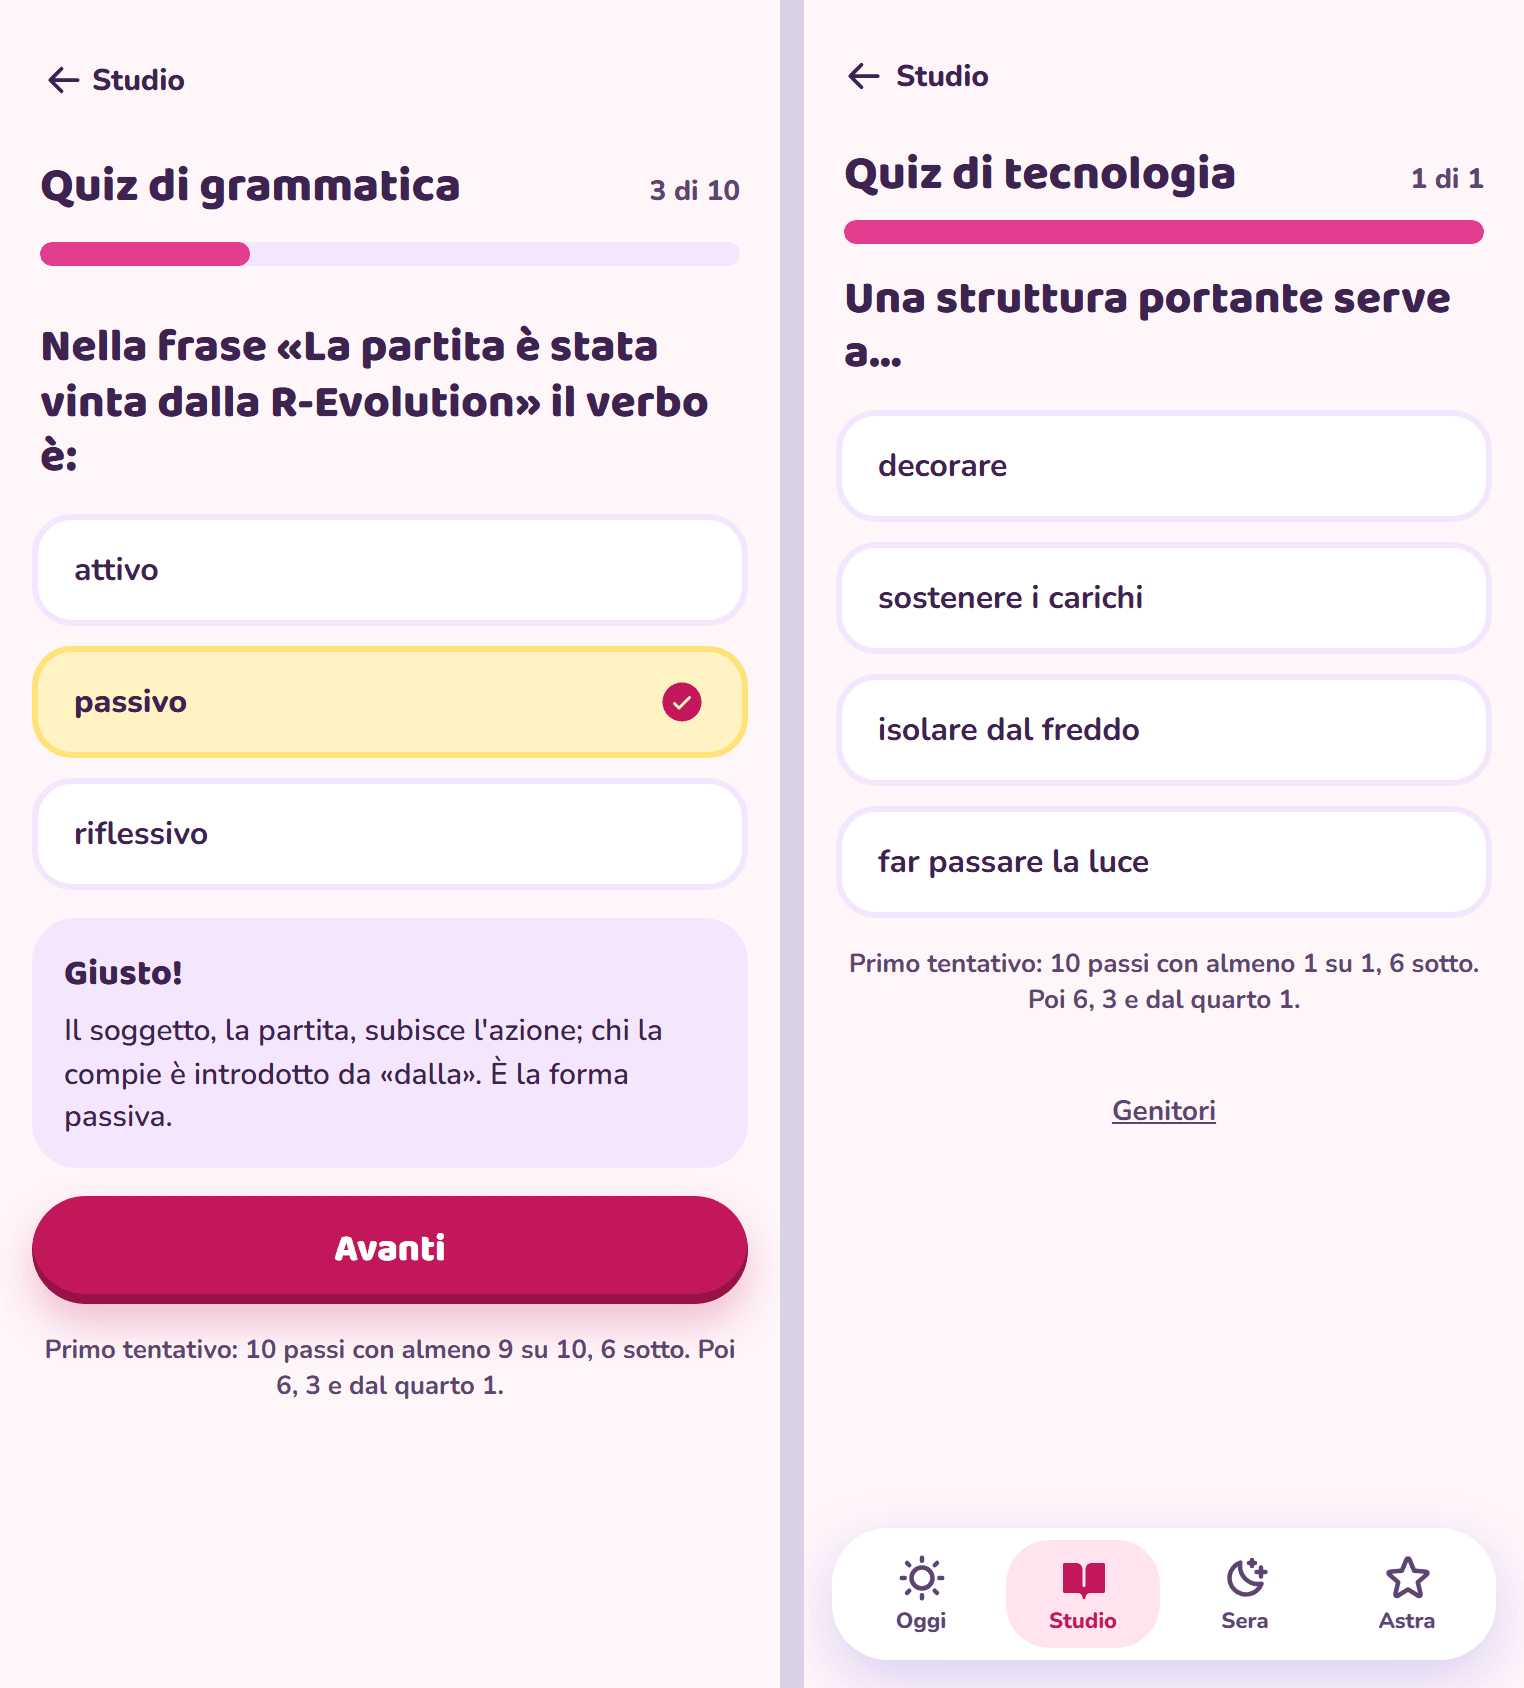
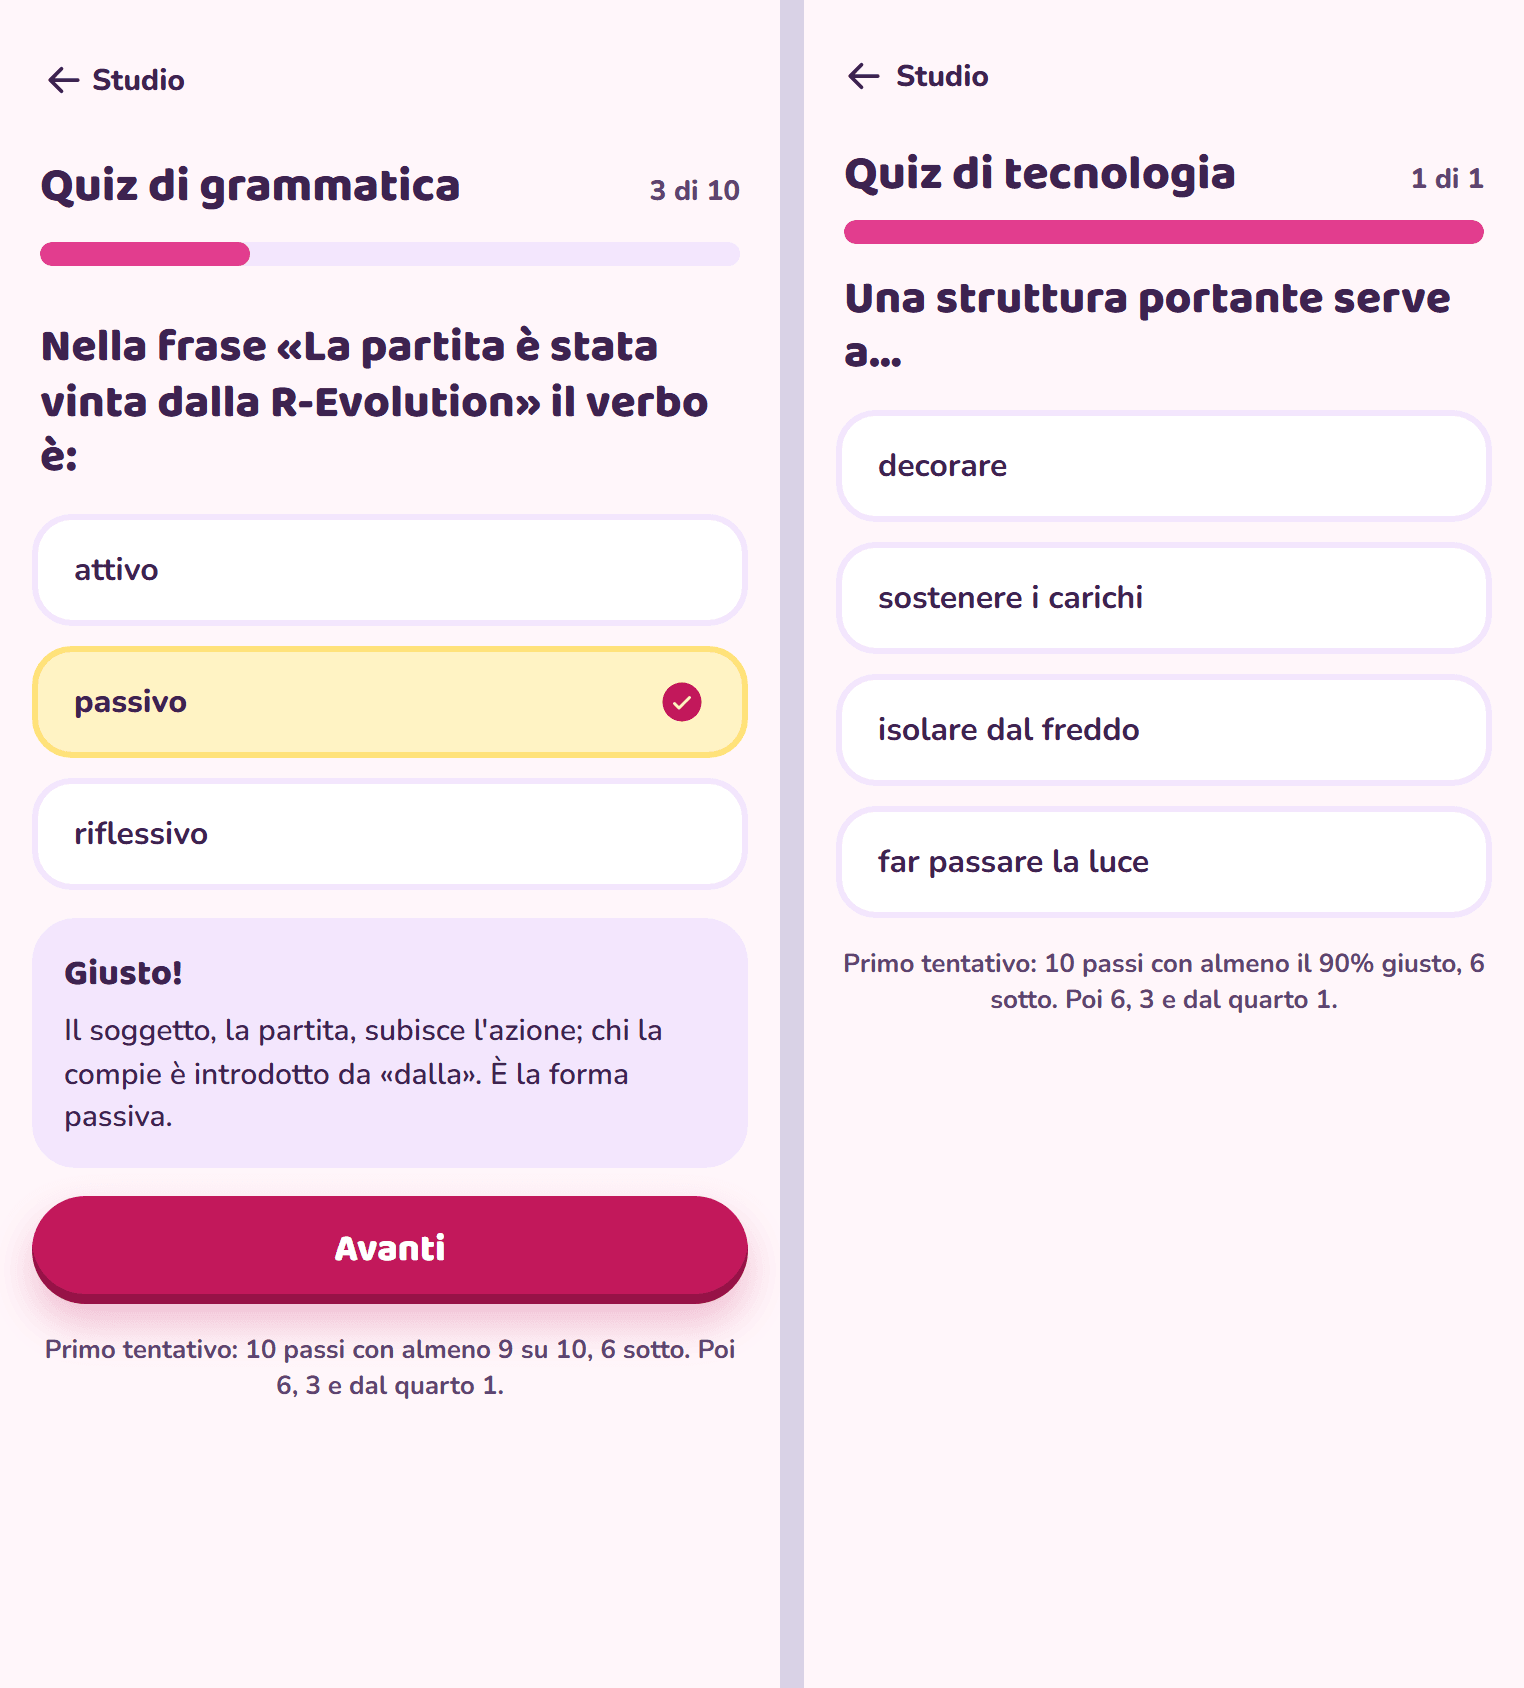
Grafica 7b: correzioni di Jarvis a flash card e quiz
- flash card: Gira dentro la carta con il conto dei 7 secondi; i tre
  esiti si vedono sempre, disattivati finché la carta non è girata
- flash card e quiz a tutto schermo: niente barra, si esce con ← Studio
- niente link Genitori nelle schermate di studio (Studio compreso)
- regola del quiz in percentuale: 'almeno il 90% giusto'
- prova: esiti disattivati, risposta nascosta, barra e Genitori nascosti

Changed region(s): [[0.586, 0.9242, 0.956, 1.0], [0.5551, 0.5545, 0.9869, 0.6161], [0.7402, 0.6469, 0.8018, 0.6777]]

diff --git a/src/Ripasso.tsx b/src/Ripasso.tsx
@@ -126,29 +126,28 @@ export function Flashcard({ carte, titolo, sessione, chiudi }: { carte: Carta[];
             <p className="retro">{carta.retro}</p>
           </>
         ) : (
-          <p className="nota">{restano > 0 ? `Leggi bene: si gira tra ${restano} secondi.` : 'Pronta? Gira la carta.'}</p>
-        )}
-      </div>
-      {girata ? (
-        <>
-          <p className="come">Com'è andata?</p>
-          <div className="esiti">
-            <button className="esito-no" onClick={() => rispondi('non_sapevo')}>
-              Non sapevo
-            </button>
-            <button className="esito-quasi" onClick={() => rispondi('quasi')}>
-              Quasi
-            </button>
-            <button className="esito-si" onClick={() => rispondi('sapevo')}>
-              Sapevo
+          <div className="da-girare">
+            <p className="nota" aria-live="polite">
+              {restano > 0 ? `Leggi bene: si gira tra ${restano} secondi.` : 'Pronta? Gira la carta.'}
+            </p>
+            <button className="principale largo" disabled={restano > 0} onClick={() => setGirata(true)}>
+              Gira
             </button>
           </div>
-        </>
-      ) : (
-        <button className="principale largo" disabled={restano > 0} onClick={() => setGirata(true)}>
-          Gira
+        )}
+      </div>
+      <p className="come">Com'è andata?</p>
+      <div className="esiti">
+        <button className="esito-no" disabled={!girata} onClick={() => rispondi('non_sapevo')}>
+          Non sapevo
         </button>
-      )}
+        <button className="esito-quasi" disabled={!girata} onClick={() => rispondi('quasi')}>
+          Quasi
+        </button>
+        <button className="esito-si" disabled={!girata} onClick={() => rispondi('sapevo')}>
+          Sapevo
+        </button>
+      </div>
       <button className="link" onClick={sbagliata}>
         Questa carta è sbagliata
       </button>
@@ -159,11 +158,11 @@ export function Flashcard({ carte, titolo, sessione, chiudi }: { carte: Carta[];
   );
 }
 
-/** "Primo tentativo: 10 passi con almeno 9 su 10, 6 sotto. Poi 6, 3 e dal quarto 1." dal config. */
-function regolaQuiz(totale: number) {
+/** "Primo tentativo: 10 passi con almeno il 90% giusto, 6 sotto. Poi 6, 3 e dal quarto 1." dal config. */
+function regolaQuiz() {
   const q = STUDIO.quiz;
   const t = q.tentativi as Record<string, number[]>;
-  return `Primo tentativo: ${t['1'][0]} passi con almeno ${Math.ceil(q.soglia_giuste * totale)} su ${totale}, ${t['1'][1]} sotto. Poi ${t['2'][0]}, ${t['3'][0]} e dal quarto ${t['4+'][0]}.`;
+  return `Primo tentativo: ${t['1'][0]} passi con almeno il ${Math.round(q.soglia_giuste * 100)}% giusto, ${t['1'][1]} sotto. Poi ${t['2'][0]}, ${t['3'][0]} e dal quarto ${t['4+'][0]}.`;
 }
 
 export function Quiz({ quizId, domande, titolo, sessione, chiudi }: { quizId: string; domande: Domanda[]; titolo: string; sessione?: string; chiudi: () => void }) {
@@ -238,7 +237,7 @@ export function Quiz({ quizId, domande, titolo, sessione, chiudi }: { quizId: st
           {i + 1 < domande.length ? 'Avanti' : 'Fine'}
         </button>
       )}
-      <p className="regola">{regolaQuiz(domande.length)}</p>
+      <p className="regola">{regolaQuiz()}</p>
     </section>
   );
 }

diff --git a/e2e/studio.e2e.ts b/e2e/studio.e2e.ts
@@ -50,6 +50,10 @@ test('sessione di flash card: si gira dopo 7 secondi, intervalli e giro salvati'
   await expect(page.getByText('Il numero sotto la linea si chiama ___.')).toBeVisible();
   await expect(page.getByRole('button', { name: 'Gira' })).toBeDisabled();
   await expect(page.getByText('Leggi bene: si gira tra 7 secondi.')).toBeVisible();
+  await expect(page.getByRole('button', { name: 'Sapevo', exact: true })).toBeDisabled();
+  await expect(page.getByText('denominatore')).toHaveCount(0);
+  await expect(page.getByRole('navigation', { name: 'Sezioni' })).toBeHidden();
+  await expect(page.getByRole('button', { name: 'Genitori' })).toBeHidden();
   await page.clock.runFor(7500);
   await page.getByRole('button', { name: 'Gira' }).click();
   await expect(page.getByText('denominatore')).toBeVisible();

diff --git a/src/stile.css b/src/stile.css
@@ -499,3 +499,9 @@ body[data-sfondo='viola'] { background: linear-gradient(180deg, #7b6ae0 0, var(-
 .pallini .oggi span { background: #fff; border: 4px solid var(--fucsia); }
 .pallini .fatta span { background: var(--fucsia); }
 .pallini .oggi { color: var(--testo-2); }
+
+/* Jarvis su grafica-2: flash card e quiz a tutto schermo, niente "Genitori" nello studio */
+body:has(.studio) .barra, body:has(.studio, .schermo-studio) .link-genitori { display: none; }
+body:has(.studio) main { padding-bottom: calc(24px + env(safe-area-inset-bottom)); }
+.da-girare { display: flex; flex-direction: column; gap: 12px; margin-top: auto; }
+.esiti button:disabled { opacity: 0.45; box-shadow: none; }

diff --git a/src/Studio.tsx b/src/Studio.tsx
@@ -99,7 +99,7 @@ export default function Studio() {
   if (!verifiche) return null;
 
   return (
-    <section className="schermo">
+    <section className="schermo schermo-studio">
       <Testata sfondo="panna" posa="lani-pensierosa" misura={132} sopra="Studio" titolo="Le tue verifiche" riga={<p>Il ripasso è già organizzato nei pomeriggi liberi.</p>} />
       {compitiAperti > 0 && <p className="lady">Prima i compiti di oggi: poi flash card e quiz danno passi.</p>}
 
